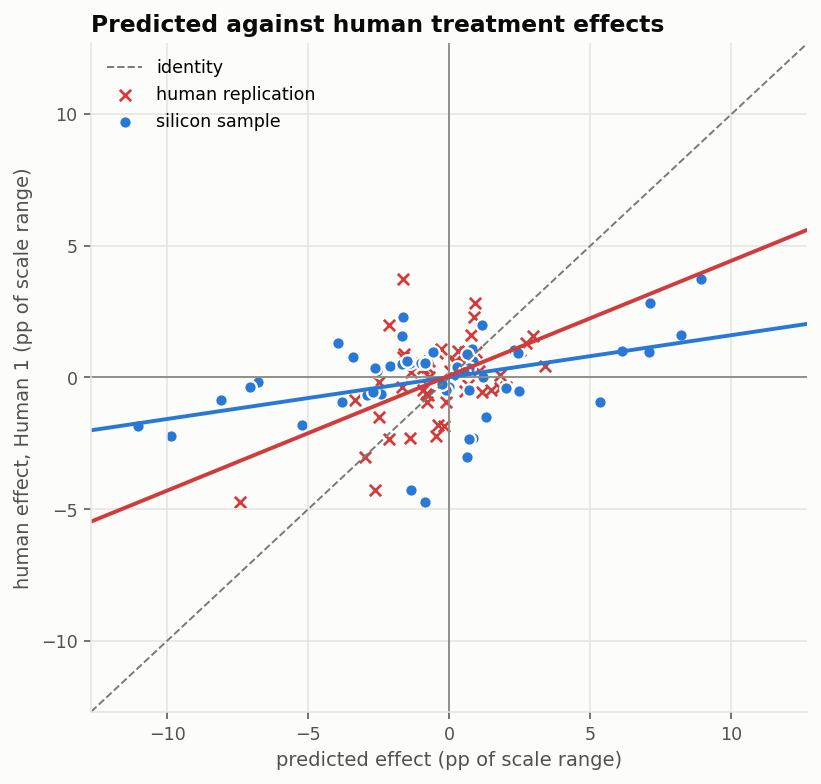
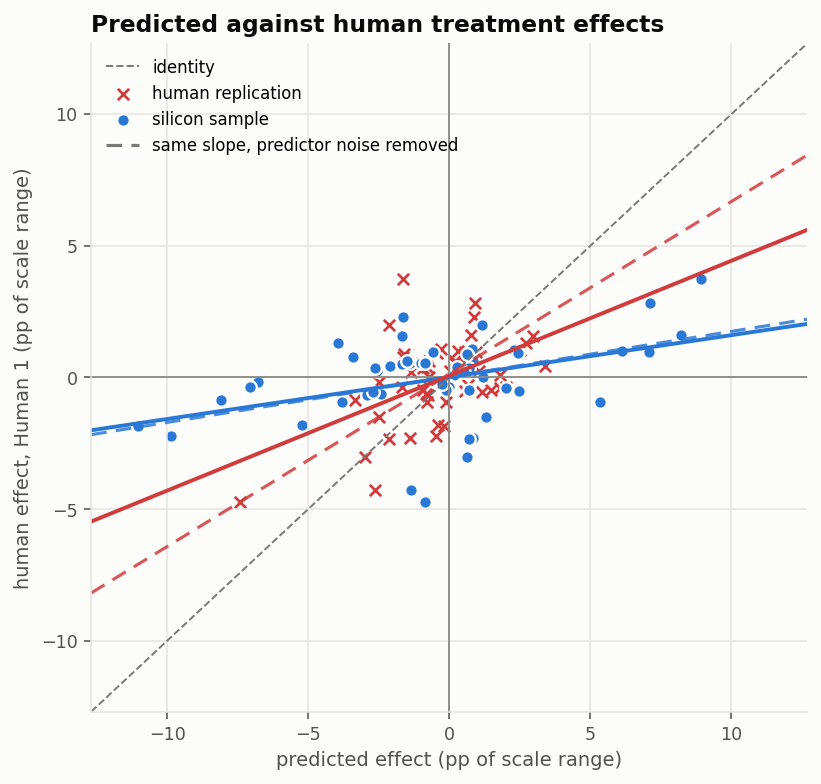
Make the headline figure show the comparison its caption claims
The plot regresses human effects on predicted effects, and that slope is
attenuated by the reliability of the x-axis — which differs by row. The human
replication's effects are 33% sampling noise, ours 8%, so the replication's line
is dragged flat by a mechanism that barely touches ours. Comparing the two by eye
understated the gap: it read as 2.7x when the real difference is 3.8x, i.e. the
raw figure flattered the silicon sample.

Adds a dashed line per series with the predictor's own noise removed — the
replication's springs up near identity, where an unbiased-but-noisy predictor
belongs, while ours barely moves — and a note explaining why a slope of 1 is not
what a good predictor produces here, and why we cannot simply plot against the
true effects instead: they are unobservable, the half sample is 53% reliable and
even the full human sample only 69%, so there is no noise-free axis to plot
against. The correction goes on the slope because it cannot go on the data.

diff --git a/silicon_sampling/voelkel/report.py b/silicon_sampling/voelkel/report.py
@@ -132,18 +132,46 @@ def _plots(
         lw=1.2,
         label="silicon sample",
     )
+    # Solid line: the raw calibration slope, which is what the benchmark reports.
+    # Dashed: the same slope with the *predictor's* own sampling noise removed.
+    # That correction matters because attenuation depends only on the x-axis, and
+    # the x-axis differs by submission — the human replication's effects are 33%
+    # noise, ours are 8% — so the raw lines are not comparable by eye.
+    grid = np.linspace(-limit, limit, 10)
     for frame, colour in ((pairs, viz.BLUE), (human_pairs, viz.RED)):
         clean = frame.dropna(subset=["estimate_h", "estimate_l"])
-        if len(clean) > 2:
-            slope, intercept = np.polyfit(clean["estimate_l"], clean["estimate_h"], 1)
-            grid = np.linspace(-limit, limit, 10)
-            ax.plot(grid, intercept + slope * grid, color=colour, lw=2.0)
+        if len(clean) <= 2:
+            continue
+        slope, intercept = np.polyfit(clean["estimate_l"], clean["estimate_h"], 1)
+        ax.plot(grid, intercept + slope * grid, color=colour, lw=2.0)
+        x = clean["estimate_l"].to_numpy(float)
+        noise = (
+            np.nanmean(clean["se_l"].to_numpy(float) ** 2)
+            if "se_l" in clean
+            else np.nan
+        )
+        reliability = 1 - noise / x.var(ddof=1) if x.var(ddof=1) > 0 else np.nan
+        if np.isfinite(reliability) and reliability > 0:
+            centre_x, centre_y = x.mean(), clean["estimate_h"].mean()
+            ax.plot(
+                grid,
+                centre_y + (slope / reliability) * (grid - centre_x),
+                color=colour,
+                lw=1.6,
+                ls=(0, (5, 3)),
+                alpha=0.85,
+            )
     ax.set_xlim(-limit, limit)
     ax.set_ylim(-limit, limit)
     ax.set_xlabel("predicted effect (pp of scale range)")
     ax.set_ylabel("human effect, Human 1 (pp of scale range)")
     ax.set_title("Predicted against human treatment effects")
-    ax.legend(loc="upper left")
+    from matplotlib.lines import Line2D
+
+    handles, labels = ax.get_legend_handles_labels()
+    handles.append(Line2D([], [], color=viz.TEXT_MUTED, lw=1.6, ls=(0, (5, 3))))
+    labels.append("same slope, predictor noise removed")
+    ax.legend(handles, labels, loc="upper left", fontsize=8.5)
     viz.save(fig, PLOTS / "01_predicted_vs_human.png")
 
     # Effects arm by arm, ours against theirs, for the composite outcome.
@@ -300,6 +328,19 @@ def _write_reports(
     vis_r = float(visible.mean()) if len(visible) else float("nan")
     invis_r = float(invisible.mean()) if len(invisible) else float("nan")
 
+    def _reliability(frame):
+        x = frame["estimate_l"].to_numpy(float)
+        noise = np.nanmean(frame["se_l"].to_numpy(float) ** 2)
+        return 1 - noise / x.var(ddof=1) if x.var(ddof=1) > 0 else float("nan")
+
+    syn_rel = _reliability(pairs)
+    hum_rel = _reliability(human_pairs)
+    # How good a stand-in for the truth is even obtainable, for the note below.
+    true_var = max(pairs["estimate_h"].var(ddof=1) - noise_var, 0.0)
+    full_noise = float(np.mean(S.effects(pd.concat([human1, human2]))["se"] ** 2))
+    half_rel = true_var / (true_var + noise_var) if true_var > 0 else float("nan")
+    full_rel = true_var / (true_var + full_noise) if true_var > 0 else float("nan")
+
     ours = board[board["submission"].str.startswith("Silicon")].iloc[0]
     theirs = board[board["submission"].str.startswith("Human")].iloc[0]
     null_row = board[board["submission"].str.contains("no effect")].iloc[0]
@@ -362,6 +403,37 @@ scores correlation this sample would look respectable, and on one that scores
 RMSE or calibration it would lose to a constant zero.
 
 ![Predicted against human effects](plots/01_predicted_vs_human.png)
+
+### How to read that figure
+
+**The identity line is the target, but a slope of 1 is not what a good predictor
+produces here.** Both axes are noisy estimates of the same unobservable truth, and
+regressing one noisy quantity on another attenuates the slope toward zero:
+conditioning on a large predicted effect selects cases where the predictor's noise
+happened to land positive, so the truth behind them — and hence the human
+measurement of it — is smaller. The fitted slope is the *reliability* of the
+x-axis, `var(true) / (var(true) + var(noise))`, not 1.
+
+That matters because **attenuation depends only on the x-axis, which is different
+for each row**:
+
+| | x-axis reliability | raw slope | noise removed |
+| --- | --- | --- | --- |
+| silicon sample | {syn_rel:.2f} | {ours['beta']:.2f} | **{ours['beta_adj']:.2f}** |
+| human replication | {hum_rel:.2f} | {theirs['beta']:.2f} | **{theirs['beta_adj']:.2f}** |
+
+The human replication's effects are {1 - hum_rel:.0%} sampling noise, ours only {1 - syn_rel:.0%}. So the
+solid red line is dragged flat by something that barely touches the solid blue
+one, and comparing the two by eye understates the gap — it reads as a
+{theirs['beta'] / ours['beta']:.1f}x difference when the real one is {theirs['beta_adj'] / ours['beta_adj']:.1f}x. The dashed lines remove each
+predictor's own noise: the red one springs up near identity, which is where an
+unbiased-but-noisy predictor belongs, while the blue one barely moves.
+
+**Why not simply plot against the true effects, where the ceiling would be
+obvious?** Because they are not observable. Every candidate x-axis is itself an
+estimate: the half sample used here is {half_rel:.0%} reliable, and even the *full* human
+sample is only {full_rel:.0%}. There is no noise-free axis to plot against, which is why
+the correction is applied to the slope rather than to the data.
 
 ![Composite effects](plots/02_composite_effects.png)
 

diff --git a/docs/reports/voelkel_validation/README.md b/docs/reports/voelkel_validation/README.md
@@ -62,6 +62,37 @@ RMSE or calibration it would lose to a constant zero.
 
 ![Predicted against human effects](plots/01_predicted_vs_human.png)
 
+### How to read that figure
+
+**The identity line is the target, but a slope of 1 is not what a good predictor
+produces here.** Both axes are noisy estimates of the same unobservable truth, and
+regressing one noisy quantity on another attenuates the slope toward zero:
+conditioning on a large predicted effect selects cases where the predictor's noise
+happened to land positive, so the truth behind them — and hence the human
+measurement of it — is smaller. The fitted slope is the *reliability* of the
+x-axis, `var(true) / (var(true) + var(noise))`, not 1.
+
+That matters because **attenuation depends only on the x-axis, which is different
+for each row**:
+
+| | x-axis reliability | raw slope | noise removed |
+| --- | --- | --- | --- |
+| silicon sample | 0.92 | 0.16 | **0.17** |
+| human replication | 0.67 | 0.44 | **0.66** |
+
+The human replication's effects are 33% sampling noise, ours only 8%. So the
+solid red line is dragged flat by something that barely touches the solid blue
+one, and comparing the two by eye understates the gap — it reads as a
+2.7x difference when the real one is 3.8x. The dashed lines remove each
+predictor's own noise: the red one springs up near identity, which is where an
+unbiased-but-noisy predictor belongs, while the blue one barely moves.
+
+**Why not simply plot against the true effects, where the ceiling would be
+obvious?** Because they are not observable. Every candidate x-axis is itself an
+estimate: the half sample used here is 53% reliable, and even the *full* human
+sample is only 69%. There is no noise-free axis to plot against, which is why
+the correction is applied to the slope rather than to the data.
+
 ![Composite effects](plots/02_composite_effects.png)
 
 ## The levels are wrong, though the spread is not
